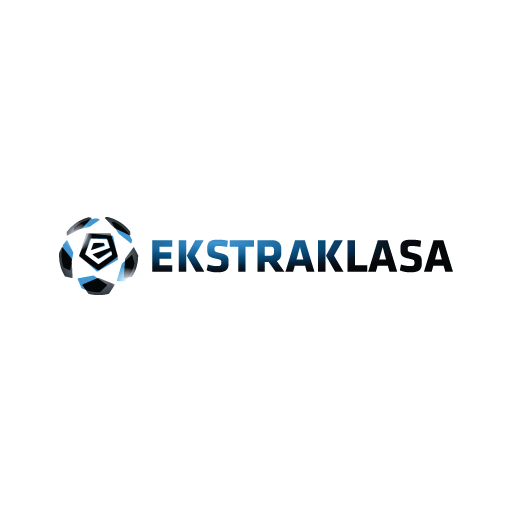
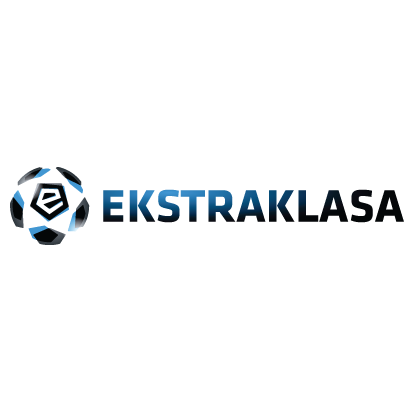
new change

Changed region(s): [[0.0, 0.4088, 0.9927, 0.6131]]

diff --git a/src/App.css b/src/App.css
@@ -54,7 +54,7 @@
   grid-template-columns:1fr 1fr ;
 }
 .TournamentItem img{
-  height: 50px; 
+  height: 70px; 
   margin:auto;
   padding-right: 50px;
 }
